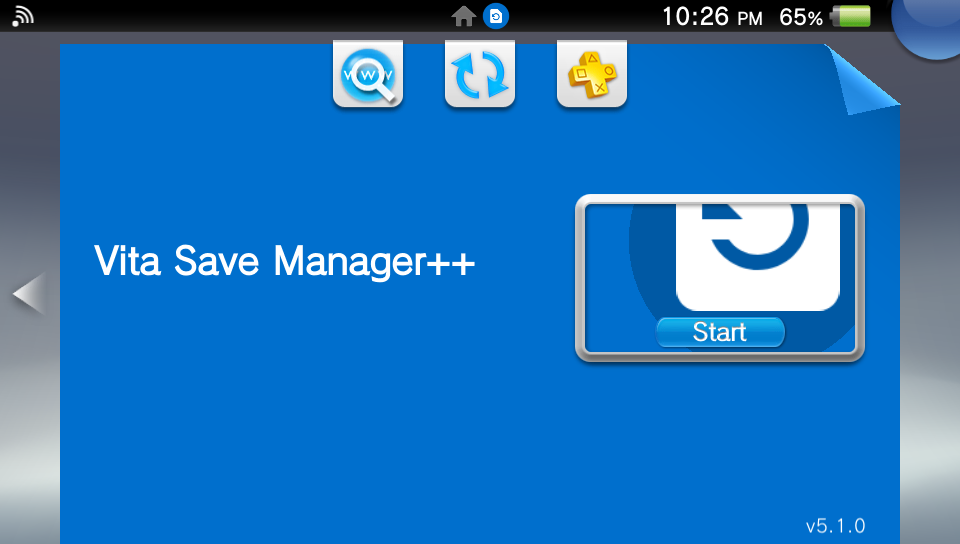
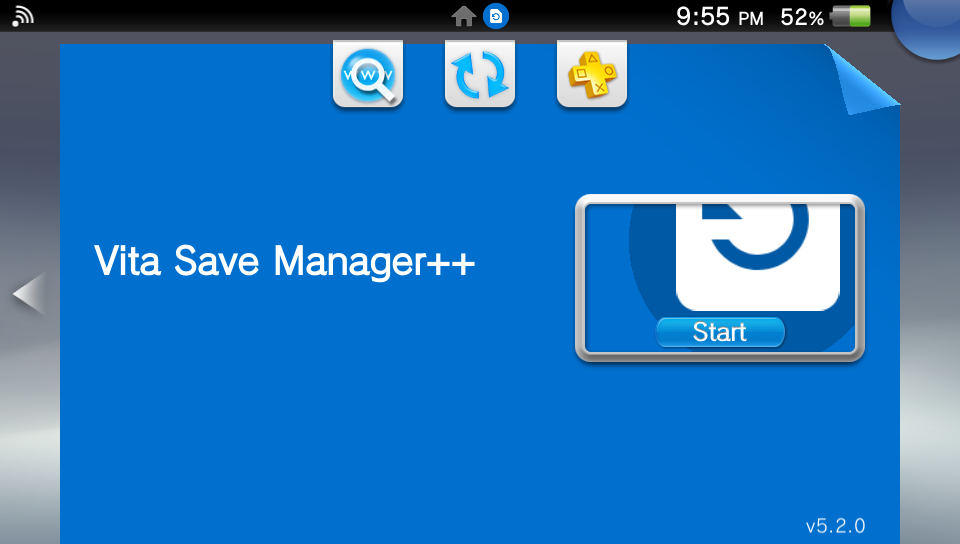
Update (v5.2.0)

diff --git a/CHANGELOG.md b/CHANGELOG.md
@@ -1,3 +1,7 @@
+## 5.2.0
+- Add support for homebrew apps & Adrenaline
+- Disable auto suspend on crucial I/O operations and FTP
+
 ## 5.1.0
 - Improve the FTP feature
 - Improve main menu
